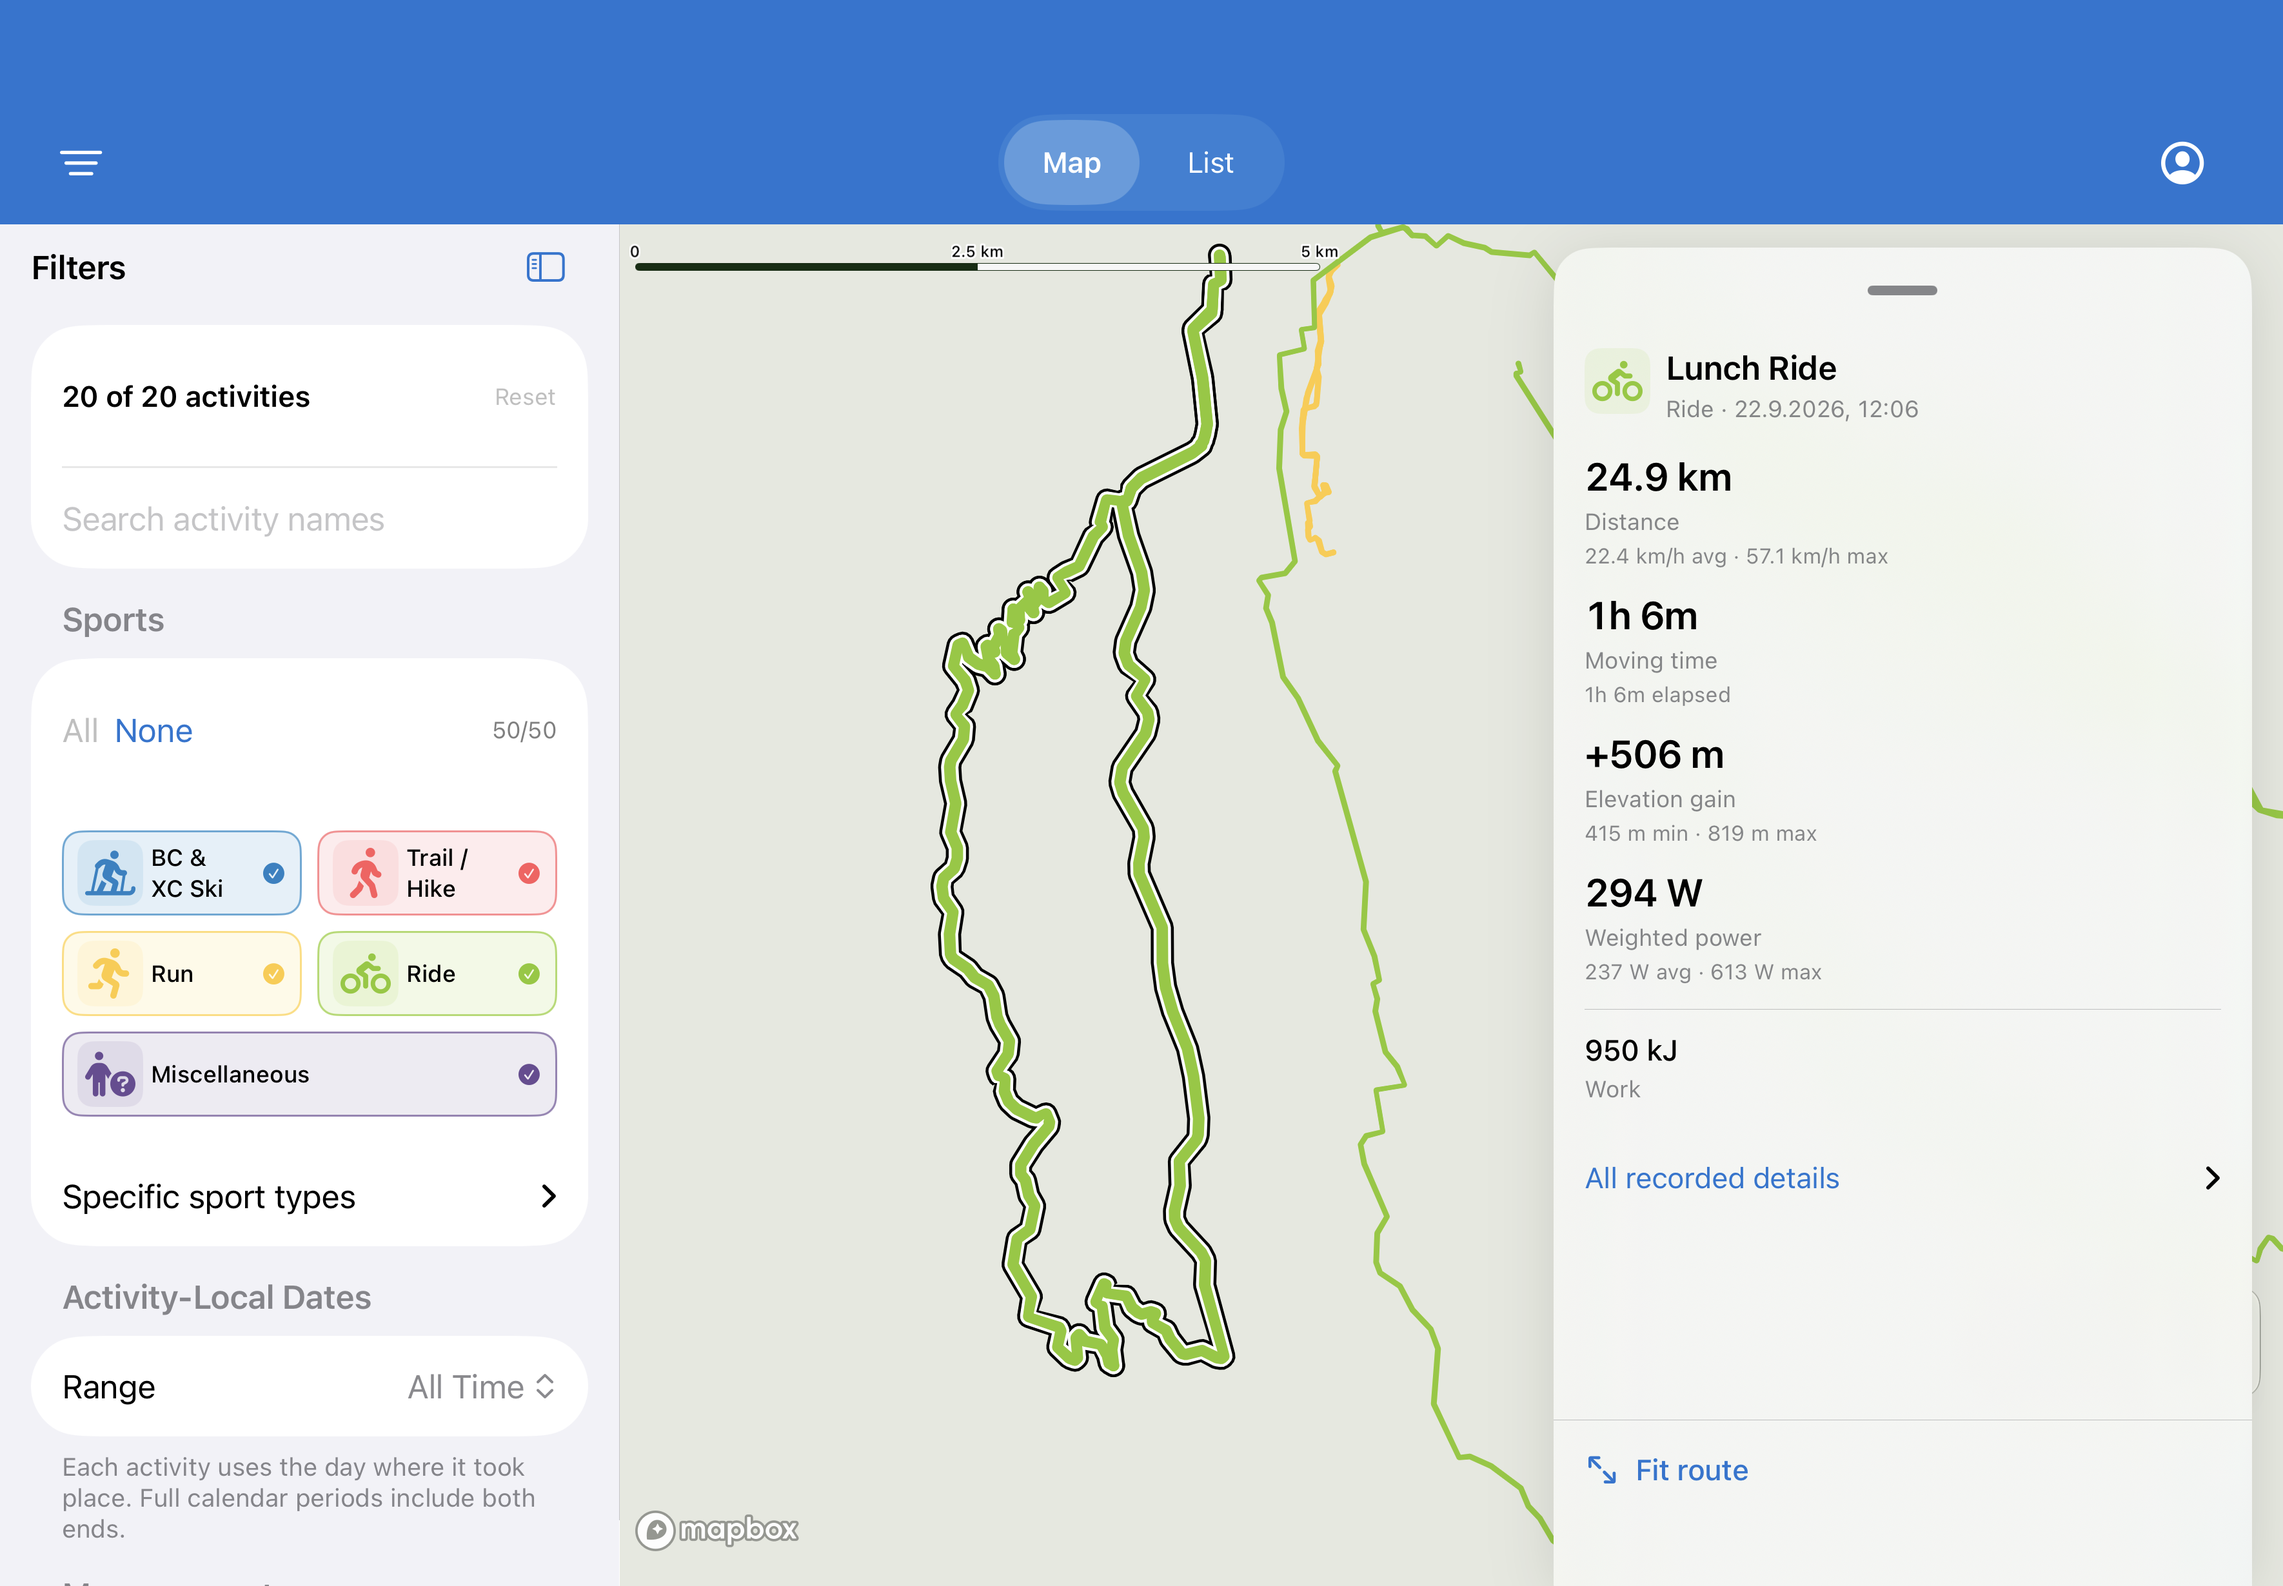
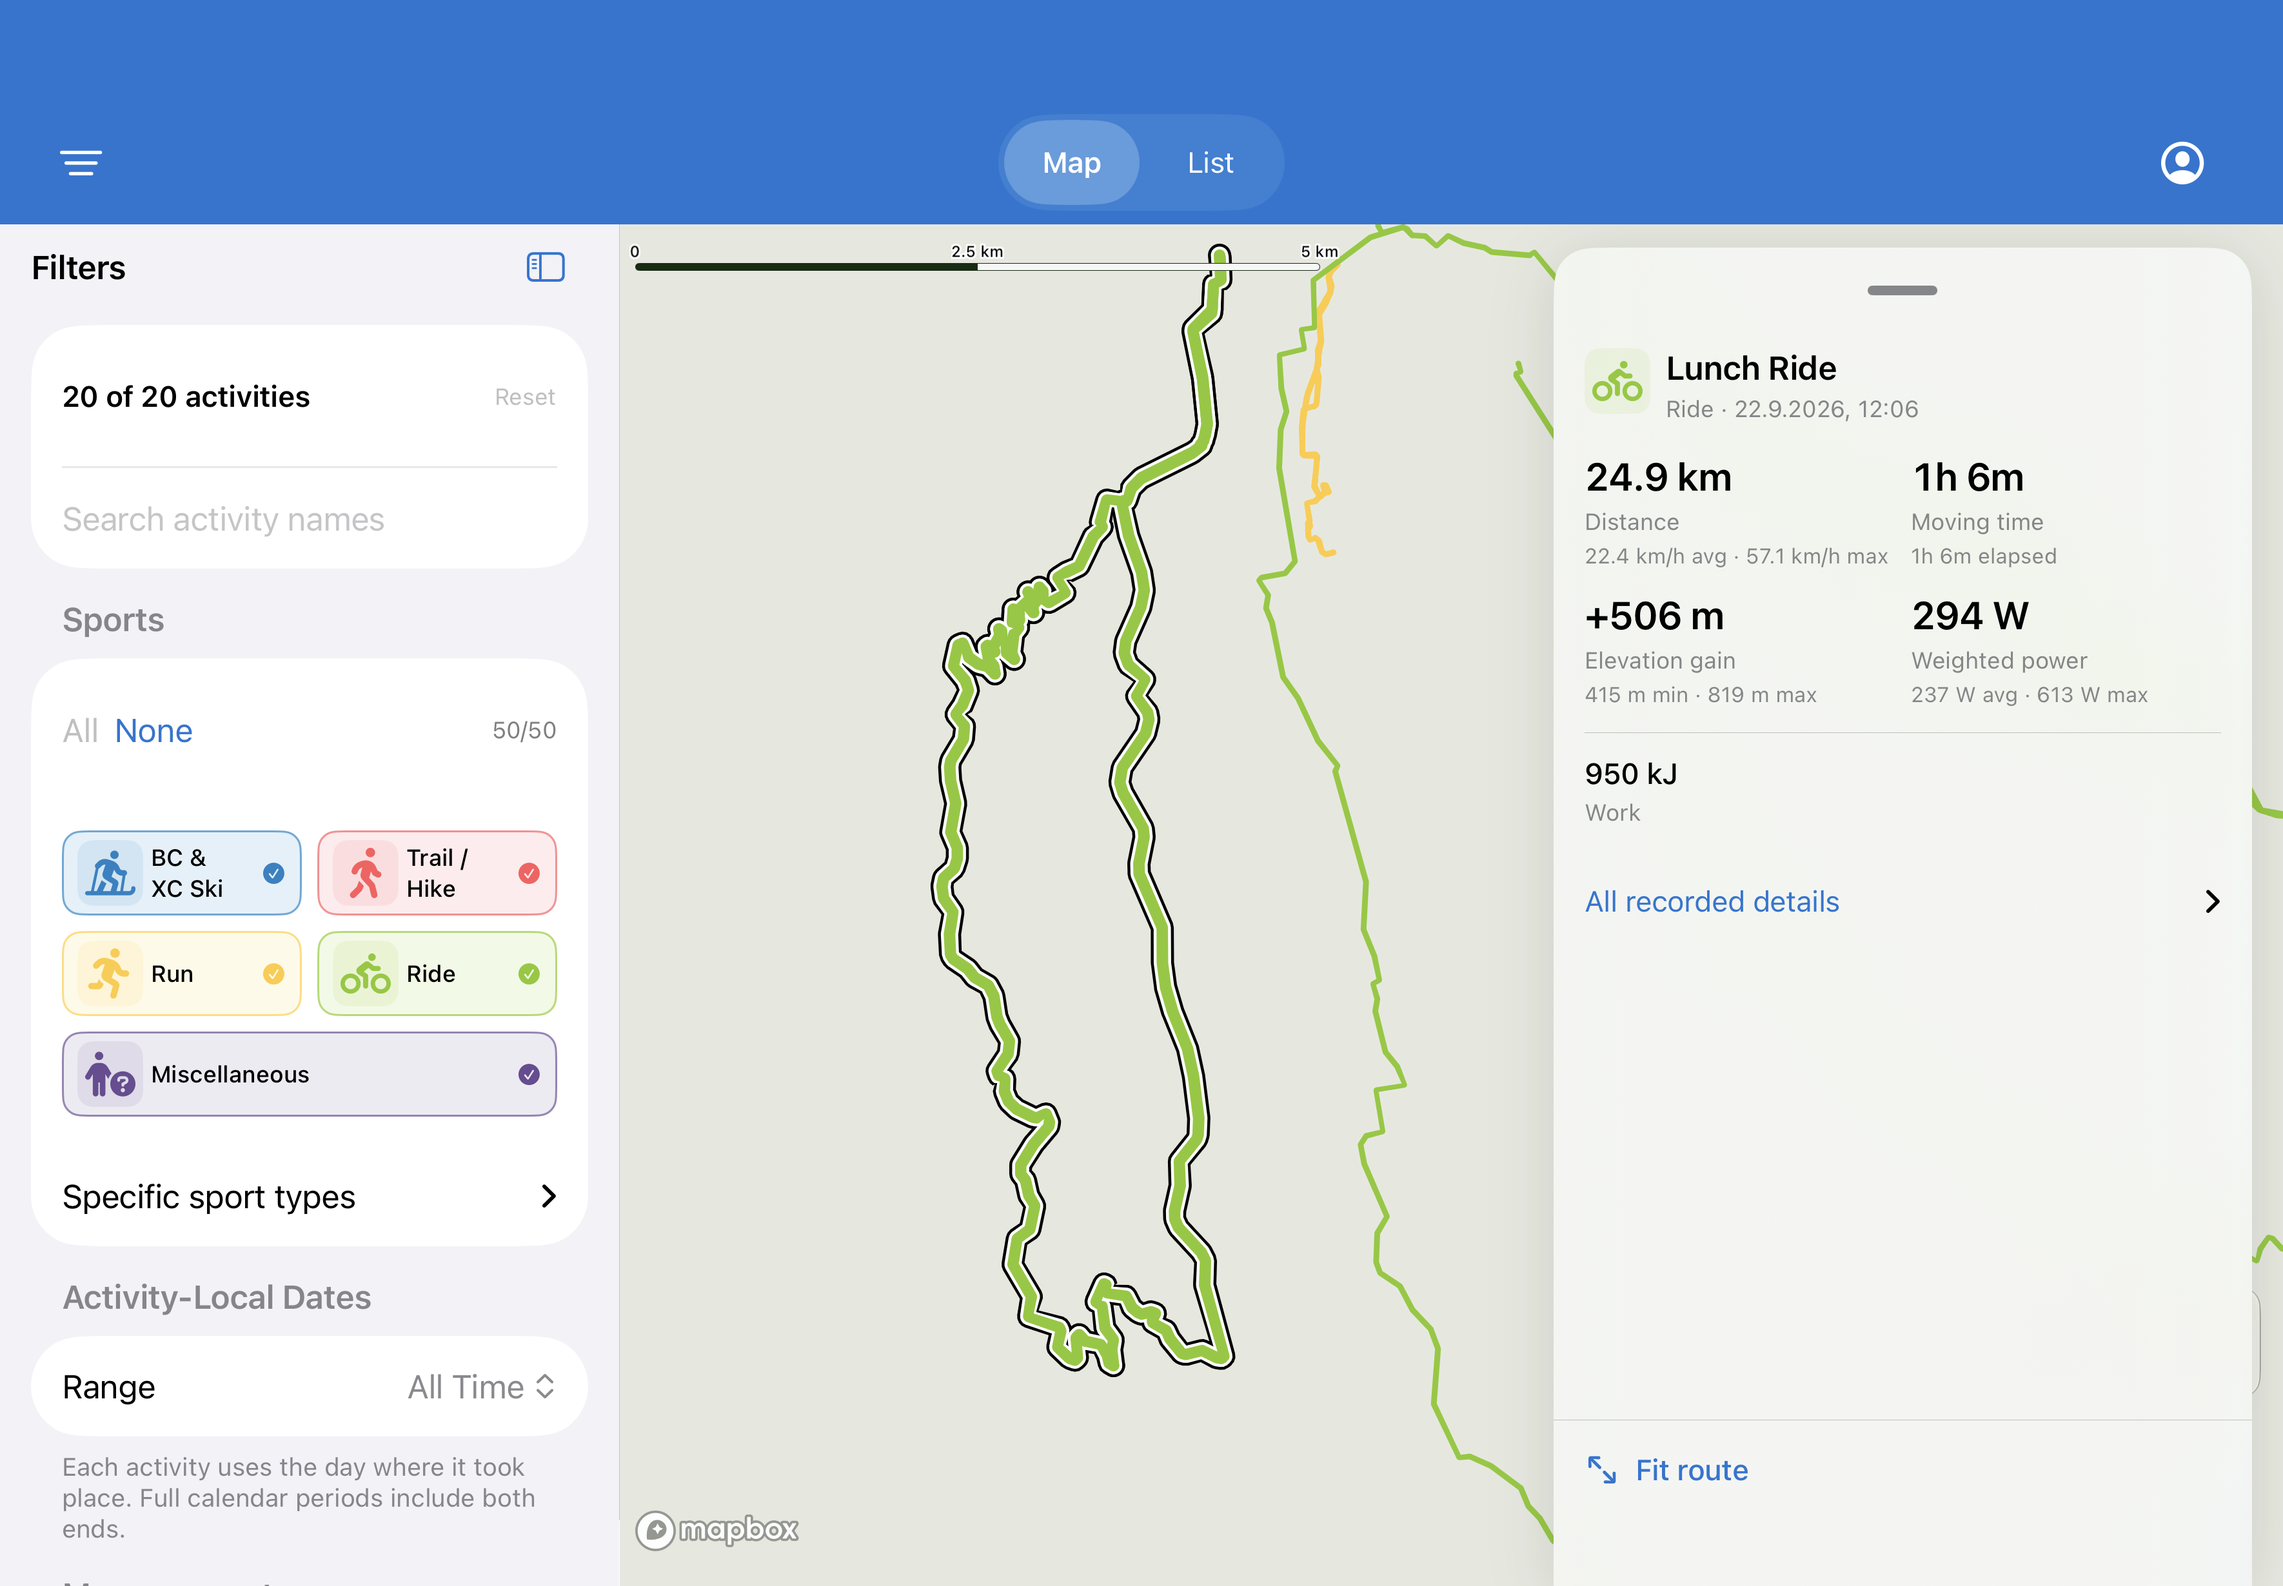
Size activity stats columns to their available width

diff --git a/ios/ActivityMap/ActivityMap/List/ActivityDetailContent.swift b/ios/ActivityMap/ActivityMap/List/ActivityDetailContent.swift
@@ -10,13 +10,13 @@ struct ActivityDetailContent<Profile: View, Photos: View>: View {
     @ViewBuilder var profile: (Activity) -> Profile
     @ViewBuilder var photos: (Activity) -> Photos
     @Environment(\.dynamicTypeSize) private var typeSize
-    @Environment(\.horizontalSizeClass) private var sizeClass
 
     private var rows: [ActivityMetricRow] { ActivityMetricRow.rows(for: activity) }
     private var columns: [GridItem] {
         if typeSize.isAccessibilitySize { return [GridItem(.flexible(), alignment: .leading)] }
-        if sizeClass == .regular { return [GridItem(.adaptive(minimum: AppTheme.minimumDetailColumnWidth), alignment: .leading)] }
-        return [GridItem(.flexible(), alignment: .leading), GridItem(.flexible(), alignment: .leading)]
+        // Use the content width, including inside a narrow iPad map panel,
+        // rather than inheriting the size class of the entire window.
+        return [GridItem(.adaptive(minimum: AppTheme.minimumDetailColumnWidth), alignment: .leading)]
     }
     private var supplementary: [ActivityMetricRow] {
         let ids = ["averageHeartrate", "maxHeartrate", "calories", "kilojoules"]

diff --git a/ios/ActivityMap/ActivityMap/App/AppTheme.swift b/ios/ActivityMap/ActivityMap/App/AppTheme.swift
@@ -38,7 +38,7 @@ enum AppTheme {
     static let minimumTarget: CGFloat = 44
     static let minimumMetricColumnWidth: CGFloat = 100
     static let minimumInlineMetricColumnWidth: CGFloat = 72
-    static let minimumDetailColumnWidth: CGFloat = 180
+    static let minimumDetailColumnWidth: CGFloat = 150
 
     static let headerBackground = navigationBlue
 }

diff --git a/docs/ios-navigation-identity-review.md b/docs/ios-navigation-identity-review.md
@@ -43,11 +43,11 @@ The 1180×820 production shell with Filters open leaves an 860pt map and uses th
 | --- | --- |
 | ![Wide shell expanded](ios-navigation-identity/wide-shell-expanded.png) | ![Wide shell collapsed](ios-navigation-identity/wide-shell-collapsed.png) |
 
[2 lines of base64/hex data omitted]
 
 ## Validation
 
-Final run: **218 tests passed (347 parameterized runs), zero failures, two opt-in tests skipped** on iPhone 18 Pro / iOS 27.0 Simulator. Result bundle: `/tmp/activitymap-navigation-build/Logs/Test/Test-ActivityMap-2026.10.03_08-35-57-+0200.xcresult`. Both 20-capture galleries validated successfully. `git diff --check` passes.
+Full suite before the stats-grid follow-up: **218 tests passed (347 parameterized runs), zero failures, two opt-in tests skipped** on iPhone 18 Pro / iOS 27.0 Simulator. Result bundle: `/tmp/activitymap-navigation-build/Logs/Test/Test-ActivityMap-2026.10.03_08-35-57-+0200.xcresult`. Both 20-capture galleries validated successfully. `git diff --check` passes.
 
 Run the complete simulator suite:
 
@@ -68,3 +68,9 @@ scripts/ios-gallery.sh navigation-review \
   --scene list,list-detail,filters,map-results,map-detail \
   --variant phone,phone-dark,small-large-text,tablet
 ```
+
+## Stats-grid follow-up
+
+Stats columns now adapt to the available content width with a 150pt minimum instead of inheriting the window size class. The phone and narrow iPad panel use two columns at normal text sizes; accessibility text uses one column. Panel heights and snap behavior are unchanged. Refreshed single-activity screenshots show this layout.
+
+Focused rendered detail/map validation: 30 tests passed, 69 parameterized runs, zero failures. Result: `/tmp/activitymap-navigation-build/Logs/Test/Test-ActivityMap-2026.10.03_08-45-06-+0200.xcresult`.

diff --git a/docs/ios-ui-components.md b/docs/ios-ui-components.md
@@ -48,7 +48,7 @@ Phone List pushes a native detail destination with Back and swipe-back. Its wrap
 
 ### Shared detail
 
-The shared `ActivityDetailContent` follows the web card's compact grouping: headline numbers with labels and related context beneath, without separate padded cards for each measurement. Moving time carries elapsed time; elevation gain carries independently recorded min/max; weighted power carries average/max; distance carries recorded speed context. HR/energy and power without a recorded weighted value stay independently visible. Full recorded metadata is reachable through a native disclosure. Phone metrics use two columns, wide hosts adapt, and accessibility text stacks. The bottom action stays reachable with a quieter treatment and is host-specific (see [Detail and framing follow-up](#detail-and-framing-follow-up)).
+The shared `ActivityDetailContent` follows the web card's compact grouping: headline numbers with labels and related context beneath, without separate padded cards for each measurement. Moving time carries elapsed time; elevation gain carries independently recorded min/max; weighted power carries average/max; distance carries recorded speed context. HR/energy and power without a recorded weighted value stay independently visible. Full recorded metadata is reachable through a native disclosure. Metric columns adapt to their actual content width (150pt minimum): phone and narrow iPad panels fit two columns, wider hosts can fit more, and accessibility text stacks. The bottom action stays reachable with a quieter treatment and is host-specific (see [Detail and framing follow-up](#detail-and-framing-follow-up)).
 
 ### Map results and detail
 
